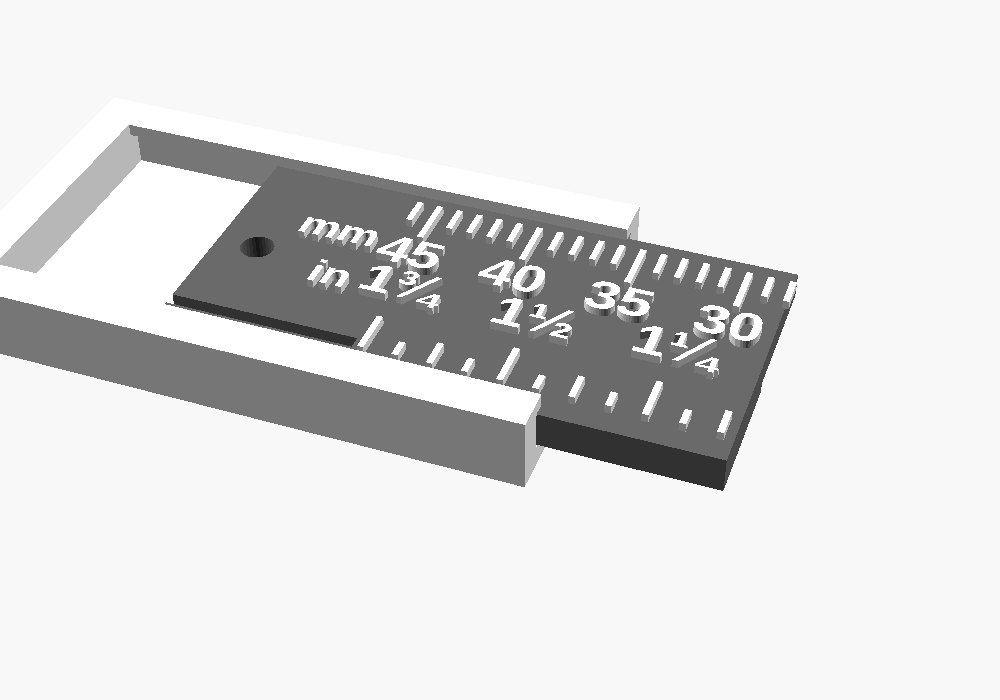
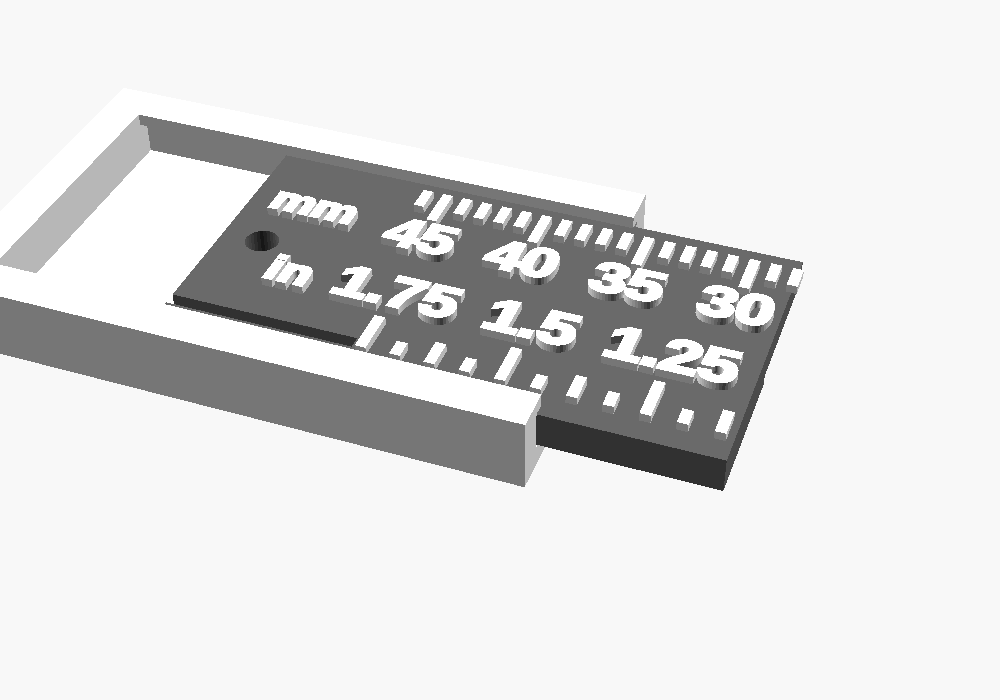
Floor span gauge: scale lines and lettering wide enough to slice
Bob's first print sliced the scale to blobs: 0.3 mm ticks and bold text
whose strokes were about 0.3 mm are under a 0.4 mm nozzle's line. Lines
are now line_w (0.5 mm) and lettering is offset to match; inch labels in
decimals, since fraction glyphs are finer still; text 2.2 mm, slider 14 mm
wide; unit labels moved clear of the numbers.

Claude-Session: https://claude.ai/code/session_01D8rC2JDyb9T3n3ujD2pgX4

diff --git a/standalone/floor-span-gauge/README.md b/standalone/floor-span-gauge/README.md
@@ -13,13 +13,15 @@ dark slider coming out to the right](floor-span-gauge.png)
 - **The slider** is a flat bar in the channel, and its front end is the
   other jaw. It carries the scale: millimeters along one edge, numbered
   every 5, and inches along the other, in sixteenths, labeled at the
-  quarters. A spring beam along one side presses on the channel wall, so
+  quarters as 1.25, 1.5 and 1.75. Every line in the scale is at least
+  0.5 mm wide, and the lettering is thickened to match, so a slicer keeps
+  it. A spring beam along one side presses on the channel wall, so
   the slider stays wherever it's left.
 - **It reads 28–46 mm (1.10–1.81")** by default.
 - **It's 3.5 mm tall,** lower than the 158's 4 mm ribs, so both jaws meet
   the ribs' faces rather than riding up over them. Each jaw's lower edge is
   chamfered, so a cast fillet at a rib's foot doesn't hold the jaw off.
-- **It's 16 mm wide,** so it fits inside a 1¼" bay whichever way it's
+- **It's 17 mm wide,** so it fits inside a 1¼" bay whichever way it's
   laid.
 
 ## Using it
@@ -60,12 +62,15 @@ slider's top face:
   body's length (`slide_len` plus the 2 mm back wall) to that plus
   `slide_len − overlap`. A longer slider reaches farther, but closes longer
   too.
-- **`slide_w`**: the slider's width (13 mm). The body is 3.2 mm wider.
+- **`slide_w`**: the slider's width (14 mm). The body is 3.2 mm wider.
 - **`grip`**: the spring beam's interference with the wall (0.3 mm). Raise
   it if the slider is loose, lower it if it's stiff.
 - **`clr`**: the clearance round the slider (0.2 mm).
 - **`chamfer`**: the chamfer on each jaw's lower edge (0.8 mm).
 - **`mark_h`**, **`text_size`**: the scale's height and lettering size.
+- **`line_w`**: the narrowest line in the scale (0.5 mm). Keep it at or a
+  little over your nozzle's width. The first print, with 0.3 mm lines and
+  unthickened lettering, sliced to scattered blobs.
 
 All in one self-contained OpenSCAD file, `floor_span_gauge.scad`, with no
 libraries needed. Its `part` setting gives `body`, `slider`,
